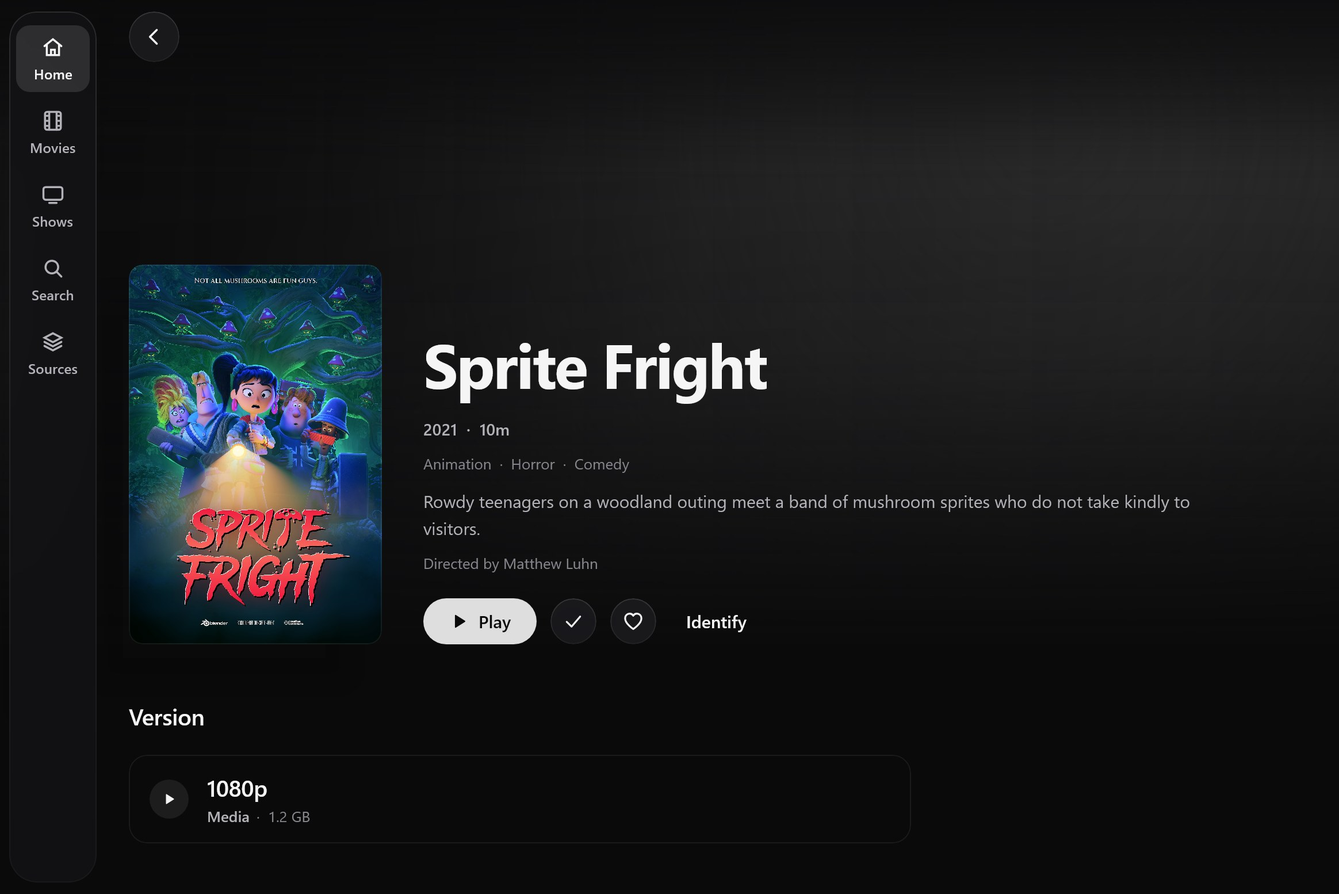
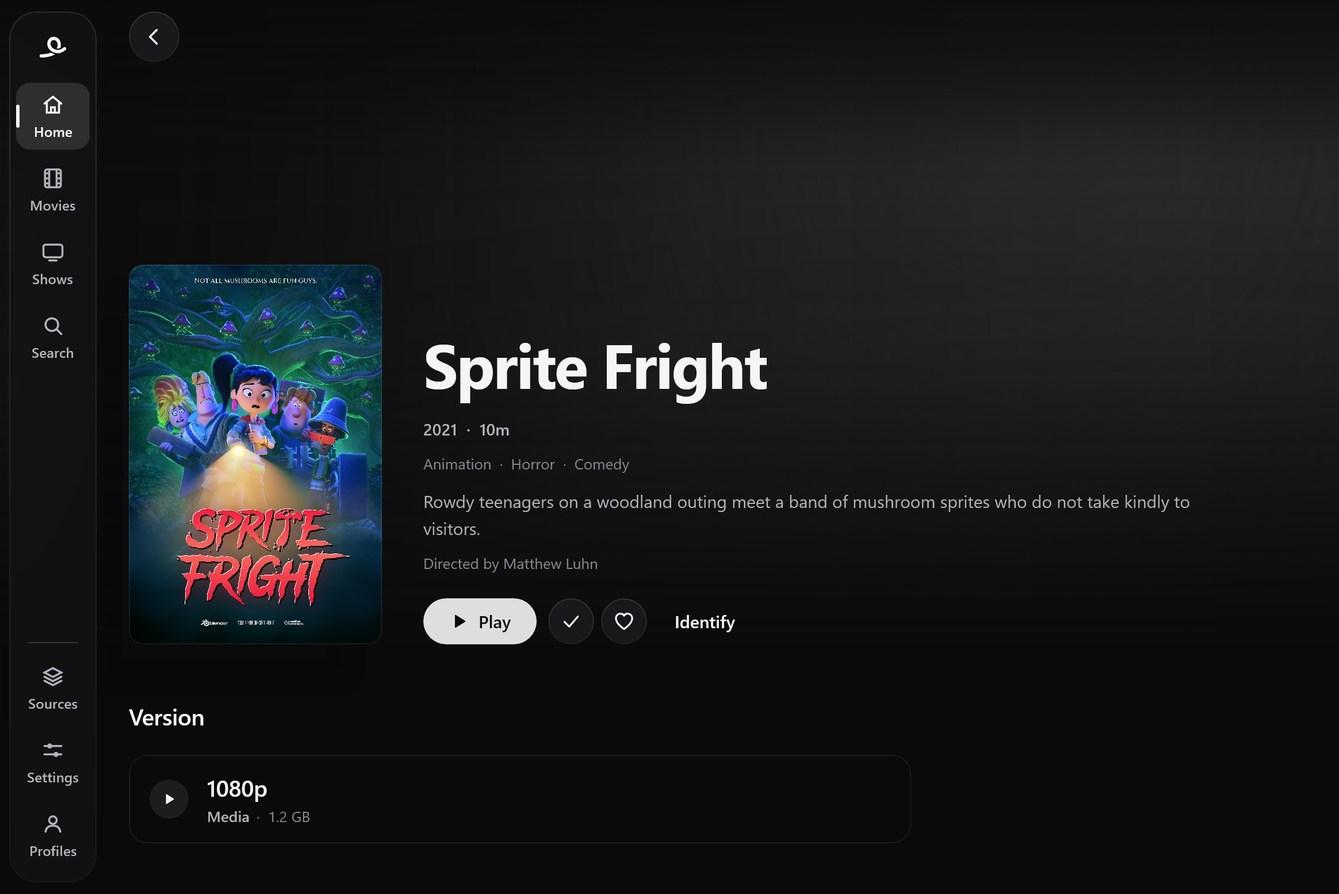
docs: record M11's rehearsal and evidence; regenerate renders and store screenshots
- VERIFICATION.md: the CI baseline, the release contract, the local rehearsal
  on the clean commit 4aab2ed (build, verify, the public set, sha256sum -c,
  notes, the publication record and its refusal of a tampered manifest, the
  website from that record, the Linux tarball installed, run, replaced, and
  removed in a clean container, the Windows zip inspected), the Android
  identity audit, the store reads, and the exit gate: the repository's part
  is done; console steps, the upload key, and a release-mode run on a tag are
  owner-pending.
- ROADMAP.md: M11's status; the stale dev.reflux owner action resolved.
- Product renders and store screenshots regenerated from the final interface
  with WebsiteShowcaseTest, which gains a television details shot (Amazon
  needs three Fire TV screenshots).

diff --git a/ui/src/jvmTest/kotlin/dev/reflux/ui/WebsiteShowcaseTest.kt b/ui/src/jvmTest/kotlin/dev/reflux/ui/WebsiteShowcaseTest.kt
@@ -134,6 +134,9 @@ class WebsiteShowcaseTest {
             app.navigator.show(Destination.Movies)
             awaitText("Big Buck Bunny")
             shoot("movies-tv")
+            app.navigator.open(Destination.Details(app.library.movies().first { it.item.title == "Sintel" }.item.id))
+            awaitText("A lonely young woman searches the world for the baby dragon she raised, after it is taken from her.")
+            shoot("details-tv")
         }
         // A phone held upright, and a tablet on its side.
         screen(world(), platform(), width = 412, height = 915, density = 2.625f) {

diff --git a/docs/VERIFICATION.md b/docs/VERIFICATION.md
@@ -1510,3 +1510,69 @@ No application code, build script, workflow, package ID, or version was changed,
 **Read from outside sources on 2026-11-13, not exercised, to be rechecked in each console when its step runs:** Play's target API 36 rule (from 2026-08-31) and Android TV's lower floor; the personal-account closed-testing rule (twelve testers opted in for fourteen days; organization accounts exempt); Play App Signing and the upload key; the Android developer verification timeline (enforcement from 2026-09-30 in Brazil, Indonesia, Singapore, and Thailand; global in 2027) and its package-name registration rules; Android TV quality criteria (including 64-bit and 16 KB page size for TV apps from 2026-08-01); Amazon's presubmission checklist, privacy questionnaire, Live App Testing, and Appstore Beta Hub (Fire OS 7 or later, or Vega OS); Microsoft's Artifact Signing eligibility, SmartScreen per-file reputation, and Smart App Control; GitHub immutable releases (public preview announced 2025-08-26; 2026 status not verified), `gh release verify`, and artifact attestations. **Not verified, so not relied on:** whether a drop below twelve testers resets the fourteen days; the exact Play TV screenshot dimensions; whether sideloaded debug installs count toward a package's "known installs"; Microsoft Store account, fee, and packaging requirements; the April 2026 reports of an Artifact Signing reputation regression.
 
 **State:** planned, not started. M11's evidence section will separate implemented, tested locally, verified on a device or console, owner-pending, unavailable, and deferred, as M10's did.
+
+## M11: Distribution & Release Surfaces (2026-11-15)
+
+Commits: `4c79794` (the CI baseline), `4aab2ed` (the distribution work), and the record that follows them. Nothing was pushed, tagged, published, uploaded to a store, or deployed; `reflux.version` is `0.9.0-alpha.2`, unchanged. Tiers as in M10: **implemented**, **tested locally**, **verified on a device**, **owner-pending**, **unavailable**, **deferred**.
+
+### The hosted CI baseline
+
+Run 43428113176 (commit `972e3f0`) failed four `:ui:allTests` on Ubuntu; the Windows job and the other jobs were green. **Both causes were font metrics, and one was a real defect.** Reflux draws with the platform's default font; the Linux runner resolves DejaVu Sans, about 10 to 20% wider than Segoe UI (Windows) and Roboto (Android).
+
+- `DetailActionsLayoutTest` (three tests, added in `dbb4840` and only ever run on Windows before): at 412 dp the Resume / From the start / watched / favorite row needs 394 dp on DejaVu (410 with 48 dp targets) against 380 available, 355 (371) on Segoe UI; the layout wraps the compact pair together, as designed. The tests model a phone's width and font, so the Linux CI job now pins `sans-serif` to Liberation Sans (Arial metrics; `tools/ci/fonts.conf`, `FONTCONFIG_FILE`, `fonts-liberation`). No test or assertion changed. **Margin:** under Liberation Sans the touch row fits with 0 dp to spare (9 dp on Windows); a font update on the runner can tip it.
+- `PointerTest.theScrubberSeeksWhereItIsDraggedTo`: reproduced 3 of 3 in the Linux container with the identical position (1,527,573 ms against 1,500,000 ± 20,000), so not an intermittent failure. Cause: the clocks beside the timeline changed width as they counted ("1:35" to "15:00"), moving the bar under the pointer during the drag. **Fixed in the product:** each clock keeps the width of the widest time it can show for the duration (`PlayerOverlay.kt`, `clockWidth`). With DejaVu and no font pin it passes 2 of 2 in the container; on Windows it passes.
+- Locally: Linux container `:ui:jvmTest` 421 tests, 2 skipped, 0 failed (with the pin, before the clock fix); `PointerTest` 18/18 twice on DejaVu after it. Windows, full `./gradlew check releaseInfo` with Android, after both: Android unit 56, core 364, design 43, desktop app 54 (13 skipped: window tests not requested), desktop engine 44 (6 skipped), library 241, metadata 11, playback 53, Jellyfin 63, local 6, Plex 23, SMB 10 (2 skipped), WebDAV 20, ui 421 (1 skipped, `WebsiteShowcaseTest`): **0 failures**. The known intermittent `AboutUiTest` passed.
+- **Hosted CI on these commits: not run** (nothing pushed). The website job now also runs the site's unit tests (`npm test`).
+
+### M11.1 and M11.4: the release contract and GitHub
+
+- **Implemented:** manifest schema 2 (`distribution`: `github-release` or `store`); `SHA256SUMS` lists the public files only; `release.py verify --public`, `stage-public`, `notes`, `publish-record`; tag checks; the permanent package exactly; an optional pinned signer (`REFLUX_UPLOAD_CERT_SHA256`). `release.yml`: the draft carries only the public set with generated notes; the verify job refuses any Android asset and produces the publication record as an artifact; the tag must be on `main` or `hotfix/<version>`; immutable-release verification runs once a release is published. **Found and fixed:** the release job wrote the Linux archive into an untracked folder (`linux/`), which the tool's clean-tree check would have refused on every real release.
+- **Tested locally:** `python -I -m unittest discover -s tools/release` 43 tests OK; actionlint (`rhysd/actionlint:latest`) clean over all workflows; gitleaks v8.24.3 over the working tree found only build outputs and the reviewed test fixtures (CI's scan is over the history, with `.gitleaksignore`).
+- **D3:** the repository is public; `GET repos/Rifaque/reflux/immutable-releases` returns `enabled: false`; `gh` 2.94.0 has `release verify` and `verify-asset`, and `gh release view --json` exposes asset digests. **Owner-pending:** switching it on.
+- **Not run (needs a push and a tag, so the owner's authorisation):** the workflow's release mode, a real draft, `gh attestation verify` against GitHub. Two things only that run can show: whether the draft is visible to the verify job's token, and whether GitHub fills asset digests on a draft (if not, `publish-record --github-release` moves to after publication).
+
+### M11.8: the local rehearsal (clean commit `4aab2ed`)
+
+1. `release-info.json` (the Linux container's `package` build): 0.9.0-alpha.2, `versionCode` 90002, Windows 0.9.2, Linux 0.9.0~alpha.2, alpha, `dev.rsxdevelops.reflux`, `4aab2ed`, not modified.
+2. `release.py build --signing-env ~/.reflux-release/dry-run.env --add <linux tarball>`: APK 6,651,195 B, AAB 11,543,870 B, Windows zip 106,412,535 B, libmpv source 62,568,712 B, Linux tarball 91,831,565 B, all from `4aab2ed`.
+3. `verify` of the full set: 5 artifacts. The APK (aapt2): `dev.rsxdevelops.reflux`, 90002, 0.9.0-alpha.2, label "Reflux", not debuggable. The manifest: schema 2, APK and AAB `store`, the other three `github-release`.
+4. `stage-public`: the zip, the tarball, the libmpv source, and the three records; `sha256sum -c SHA256SUMS` with no flags: 3 OK; `verify --public`: 3 artifacts.
+5. `notes --version 0.9.0-alpha.2`: the notes and a 450-character store text from the changelog's section.
+6. `publish-record`: wrote the record, byte-identical to the manifest; a second run was a no-op; a manifest with one altered checksum was refused and nothing was written. `build --tag v0.9.0-alpha.2` was refused (that tag points at `4f4a26f`, not the built commit).
+7. The website built with the rehearsal record (`RELEASE_PUBLISHED_DIR`): the Download page links the Windows zip, the Linux tarball, the libmpv source, and `SHA256SUMS`, shows the commit and the checksums, and has no APK or AAB; `check-dist`: 17 pages, 0 problems. Rebuilt without it afterwards: 0 problems, tree clean.
+8. **Linux, clean container** (Ubuntu 24.04 with `libmpv2`, an unprivileged user with a new home, Xvfb): checksum OK; extracted to `~/Applications/a`; `bin/Reflux` executable; running after 25 s with a "Reflux" window (1360 × 860); the library created in `~/.local/share/reflux`; replaced by a fresh extraction in `~/Applications/b` with the old one removed: runs, library kept; removed: nothing left under the home. The replacement was the same version (no newer build exists), so it shows replacement, not a version upgrade.
+9. **Windows:** the zip extracted to a scratch folder: `Reflux.exe` `NotSigned` (by decision), the bundled runtime, `LICENSE.txt`, and `app/resources/libmpv-2.dll` with exactly the pinned SHA-256 (`e52f3f45…`); removed. **Unavailable:** Windows Sandbox (Windows 11 Home has none). Not launched, because the only Windows machine here is the owner's own, with their library in `%LOCALAPPDATA%\Reflux`. The clean-machine run and the SmartScreen wording re-check are owed to a Pro machine or VM (M12's artifact wave).
+10. **Provenance by a second machine:** owed to the first release-mode run (a machine with only `gh` and the downloaded assets).
+
+### M11.2: the Android identity and Google Play
+
+- **Implemented:** debug builds are `dev.rsxdevelops.reflux.debug`, label "Reflux (debug)", test APK `dev.rsxdevelops.reflux.debug.test`; release stays `dev.rsxdevelops.reflux`; `tools/live/run-on-device.py` follows (`REFLUX_TEST_RUNNER` overrides).
+- **Tested locally (aapt2 36.1.0):** debug `dev.rsxdevelops.reflux.debug` 90002 0.9.0-alpha.2 `application-debuggable`; release `dev.rsxdevelops.reflux` 90002 0.9.0-alpha.2, not debuggable; `releaseInfo` reports the release ID. The AAB holds `libandroidx.graphics.path.so` for arm64-v8a, armeabi-v7a, x86, and x86_64, every LOAD segment 16 KB-aligned; the release APK passes `zipalign -c -P 16`. `bundletool` not run.
+- **Device audit (2026-11-15):** Xiaomi Pad 7 `852ec620`: no Reflux. The `.debug` build was installed beside (HyperOS refused four times with `INSTALL_FAILED_USER_RESTRICTED` until the tap was accepted), launched, its artwork provider registered as `dev.rsxdevelops.reflux.debug.artwork`, then uninstalled: no Reflux again. Fire TV Stick `192.168.1.176:5555` (read-only): `dev.reflux` (installed 2026-11-08) and `dev.rsxdevelops.reflux` (2026-11-09), both 0.9.0-alpha.2 / 90002, not debuggable, one signer (most likely the dry-run key), no installer. Nothing Phone 2a: not connected; the 2026-11-13 record says it holds a `DEBUGGABLE` `dev.rsxdevelops.reflux`.
+- **Read 2026-11-15:** Android developer verification (developer.android.com and its FAQ): ADB installs need no verification; Play packages are registered at creation (about 99% automatically; the console's verification page shows it); enforcement from 2026-09-30 in four countries, global in 2027. Closed testing: 12 testers for 14 continuous days for personal accounts created after 2023-11-13; the organization exemption was **not** on the page read, so it is confirmed in the console. 16 KB pages: from 2027-02-01 a non-compliant update cannot be released. The 2026-03-30 registration date in RELEASE.md was not re-confirmed.
+- **Owner-pending:** everything in `release/google-play.md`; uninstalling the old copies of the permanent ID (the Fire TV Stick's two packages; the Phone 2a's, after checking its library).
+
+### M11.3: Amazon Appstore (Fire OS)
+
+- **Implemented:** `release/store-listing.md` as the single source for both stores (Amazon short description, bullets, keywords, the 13 content-rating answers, plain text, the TMDB wording marked dependent on D5, Watch Next marked Play-only, Fire OS only, never Vega); `release/amazon-appstore.md`.
+- **Read 2026-11-15 (developer.amazon.com):** the Fire TV background is required; Fire TV images carry no transparency; Fire TV shows the first 200 characters of the short description; 3–5 bullets; targetSdk floors per Fire OS (36 for Fire OS 16, 34 for 14, 30 for 8, 28 for 7); devices are chosen in the console; the privacy questionnaire blocks publication while incomplete; LAT and Beta Hub (Fire OS 7+); `preferExternal` recommended (not adopted; DECISIONS.md, 2026-11-15). Two pages could not be read (the image guidelines, 404; a publishing page, 500).
+- **Assets measured:** icons 114 and 512, the Fire TV icon 1280 × 720 and the background 1920 × 1080 (RGBA with full alpha: exported as RGB if the console refuses them): screenshots under M11.7.
+- **Owner-pending:** everything in `release/amazon-appstore.md`, including the LAT install, update, and removal on the Stick.
+
+### M11.7: the website
+
+- **Implemented:** the Download page (the availability table, archives from the record, the libmpv source, the notices, install / update / remove, the verification commands, notes from the changelog), the tester links, the notices page's libmpv source section, the Privacy page's profiles and PIN lines; `stores.json` and the published records validated by the build.
+- **Tested locally:** `npm test` 31/31; `npm run build`, `check-dist`, and `check-layout` (17 pages × 7 sizes, Chromium) with no record and with a fixture record; `check-links` with no record (18 external links, 0 broken); a generated page that gives the APK an address fails `check-dist`. **Not run:** a Vercel preview (deploys follow a push).
+- **Product renders and store screenshots regenerated** from the final interface (HEAD after M10) with `WebsiteShowcaseTest` over the Blender open films (artwork from Wikimedia Commons as `src/showcase.json` lists it), which gained a television details shot: store screenshots `desktop-*` 1920 × 1200 (3), `phone-home` 1080 × 2160 (top crop of 1081 × 2401, as before), `tablet-*` 2328 × 1554 (2), `tv-*` 1920 × 1080 (3, new: `tv-details`), all RGB JPG; the site's five WebP renders at their existing sizes. Each looked at: the final navigation (the profile button on the phone, the rail on the television, the sidebar on the desktop), the real artwork, no commercial title. The pairing of downloaded files to posters and backdrops is not recorded in the repository; it was inferred from the previous renders.
+
+### M11 exit gate (2026-11-15)
+
+**Not yet satisfied; the repository's part is.** The plan's gate has three conditions:
+
+| Condition | State |
+| --- | --- |
+| The rehearsal (plan, section 6) passes on a clean commit | **Local steps passed** on `4aab2ed` (1, 3 to 5, 7 in part, and the website and Linux parts of 8). **Open:** step 2's release mode on a tag and the draft on GitHub (need a push and the owner's authorisation), step 6 (store consoles), step 7 for Android, Fire TV, and Windows (store tracks; a clean Windows machine), step 8's second machine |
+| Every row of section 7's evidence recorded here | Recorded above, each with its tier; the Play internal install, the Amazon LAT install, and the Windows clean-machine run are recorded as not done |
+| No open owner action blocks a `0.9.0-beta.1` hand-off | **Open, and blocking:** the Play account type and verification, the Play and Amazon app entries, the upload key with the four `REFLUX_UPLOAD_*` secrets and the `REFLUX_UPLOAD_CERT_SHA256` variable, the support e-mail, the reviewer test source, removing the old copies of the permanent ID (Fire TV Stick, Phone 2a), D5. **Open, not blocking the hand-off:** immutable releases switched on (before the first publication), the Windows signing eligibility check (by M12's midpoint) |
+
+**Self-review.** A clean commit produced every artifact; version, commit, `versionCode`, and package agree across `release-info.json`, the manifest, the APK, `SHA256SUMS`, the publication record, and the website; the public set verifies independently with `sha256sum` and `release.py verify --public`; the five V1 targets and their channels read the same on the site, in the listing, and in RELEASE.md; no Android file can reach the GitHub release or the site; debug and release identities are separate. **Outside the plan's letter, kept deliberately:** the player's clock-width fix (the hosted CI baseline was M11's first gate, and the failure was a real defect, not a test assumption). Nothing of M12 was started.

diff --git a/release/amazon-appstore.md b/release/amazon-appstore.md
@@ -13,7 +13,7 @@ Fire TV runs Fire OS. Vega OS devices run no Android apps and are never targeted
 | 3 | Release workflow run | Get `reflux-<version>-android.apk` from the release workflow's artifacts (D1: Android is store-only, so not from the public GitHub release). Run `python tools/release/release.py verify <dir>` on it first | The APK is signed with the upload key; Amazon removes that signature and re-signs with its own. Verification re-checks package, `versionCode`, not debuggable, and signer | A release-workflow run on the release commit (an owner-requested build; never change the version by hand, `docs/VERSIONING.md`) | Verified APK: package `dev.rsxdevelops.reflux`, the `versionCode` the Play AAB uses |
 | 4 | Console, upload and Supported devices | Upload the APK. Open **Edit supported devices**; keep **Amazon Fire TV** devices that run Fire OS; clear tablets, Amazon Automotive, and anything marked Vega OS; read every "reduced device support" or "target device not available" warning and record it | Manifest filters already require no touchscreen (so the Appstore classifies the app as Fire TV). `minSdk` 26 excludes Fire OS 6 (API 25) and includes Fire OS 7 (28) and 8 (30); targetSdk 36 meets Amazon's floors (Fire OS 16: 36). Selection of Fire TV devices is manual | 3 | A Fire TV-only device list, with the Fire TV Stick 4K Plus (`AFTMA08C15`, Fire OS 8) on it. The Stick's userland is 32-bit: do not clear armeabi-v7a support, and note any warning about 64-bit |
 | 5 | Console, listing details | Fill title, short description (first 200 characters are what Fire TV shows), long description, 3 to 5 feature bullets, keywords, category, support e-mail, and privacy policy URL from `store-listing.md`; the metadata/TMDB wording waits on decision D5 | One source for both stores | 2, D5 for the TMDB sentence | Listing text complete; length limits (long description 4,000 characters, plain text) accepted |
-| 6 | Console, images | Upload from `design/brand/store/`: `amazon-icon-114.png`, `amazon-icon-512.png`, `amazon-firetv-icon-1280x720.png` (no transparency, subject inside 882 x 448), `amazon-firetv-background-1920x1080.png` (required, no transparency), and 3 to 10 TV screenshots at 1920 x 1080 | Fire TV's required set. Only two TV screenshots exist and they predate M9 and M10 | Regenerated TV screenshots (M11.7) | Every image accepted. If the console rejects the RGBA PNGs as transparent, export them as RGB |
+| 6 | Console, images | Upload from `design/brand/store/`: `amazon-icon-114.png`, `amazon-icon-512.png`, `amazon-firetv-icon-1280x720.png` (no transparency, subject inside 882 x 448), `amazon-firetv-background-1920x1080.png` (required, no transparency), and 3 to 10 TV screenshots at 1920 x 1080 | Fire TV's required set; the three `screenshots/tv-*.jpg` were regenerated from the final interface on 2026-11-15 | Nothing more | Every image accepted. If the console rejects the RGBA PNGs as transparent, export them as RGB |
 | 7 | Console, User Data Privacy Questionnaire | Answer from `docs/PRIVACY.md`, "Store disclosures": no data collected or shared, no account, no advertising ID; TMDB's title-and-year request follows D5; declare any third-party code's collection | Amazon will not publish a new app or update while the questionnaire is incomplete or has unaddressed issues | 2, D5 | Questionnaire complete, no flagged issues; privacy labels preview matches the site's privacy page |
 | 8 | Console, content rating | Answer Amazon's 13 fields from `store-listing.md` ("Content rating") | Required to submit and for Live App Testing; changes after publication need a new app file | 2 | Rating result recorded in `docs/RELEASE.md` |
 | 9 | Console, Live App Testing (LAT) | Create a test from the uploaded APK; add the owner's own Amazon account as the one tester. Several listing fields (long description, keywords, support contact, privacy) are not part of the LAT flow and can be completed later | LAT is the beta route; the owner's own test rehearses it. **Do not count this as the M12 campaign** | 3 to 8 as far as the flow requires | An invitation e-mail and a test page for the owner's account |
@@ -37,7 +37,7 @@ Fire TV runs Fire OS. Vega OS devices run no Android apps and are never targeted
 | App content meets the content policy | A player for the user's own media; no content shipped |
 | App preparation (binary) | Verified APK from the release workflow; the manifest needs no touchscreen and no camera permission |
 | User data privacy | Step 7 |
-| Images | Step 6; screenshots must be regenerated |
+| Images | Step 6 |
 | Intellectual property documentation | Third-party notices and attribution on the website; TMDB per D5 |
 | Testing on a physical device and the test criteria | Fire TV Stick 4K Plus. Criteria to walk: D-pad moves a visible focus in all four directions, no screen traps the user, Back returns to the previous screen, media buttons (rewind, fast-forward, play/pause) act on playback, the app exits on Home within about 2 seconds, install size under 4 GB, no force close, graceful behaviour without optional capabilities |
 | Device targeting in the manifest | Touchscreen not required (done); device list in step 4 |
@@ -48,7 +48,7 @@ Fire TV runs Fire OS. Vega OS devices run no Android apps and are never targeted
 
 ## Owner-pending (named)
 
-Developer account and support e-mail; the app entry; the metadata decision D5 (TMDB sentence and privacy answer); regenerated Fire TV screenshots (at least three); the reviewer test source; the `preferExternal` decision; a Fire TV television (M12 hardware).
+Developer account and support e-mail; the app entry; the metadata decision D5 (TMDB sentence and privacy answer); the reviewer test source; a Fire TV television (M12 hardware).
 
 ## Sources (read 2026-11-15)
 

diff --git a/docs/RELEASE.md b/docs/RELEASE.md
@@ -122,7 +122,7 @@ Read 2026-11-08 from the stores' current documentation (sources below); recheck 
 | Release build | R8 and resource shrinking, not debuggable, release logging redacted, no TMDB credential, no endpoint of Reflux's own (it calls only the user's servers and plex.tv) | Same |
 | Privacy policy | `https://reflux.rsxdevelops.dev/privacy` (live once the site is deployed) | Same |
 | Data safety / privacy questions | PRIVACY.md, "Store disclosures": nothing collected or shared | Same |
-| Listing | `release/store-listing.md`: text, category, content-rating answers; artwork in `design/brand/store` (icon, feature graphic, TV banner, screenshots) | The same file (Amazon's short description, bullets, keywords, and 13 content-rating answers added in M11); 114 and 512 px icons, the 1280 × 720 Fire TV icon and the **required** 1920 × 1080 background (no transparency), 1920 × 1080 screenshots (3 to 10: two exist, both from before M9, so they are regenerated). Fire TV shows only the first 200 characters of the short description (read 2026-11-15) |
+| Listing | `release/store-listing.md`: text, category, content-rating answers; artwork in `design/brand/store` (icon, feature graphic, TV banner, screenshots) | The same file (Amazon's short description, bullets, keywords, and 13 content-rating answers added in M11); 114 and 512 px icons, the 1280 × 720 Fire TV icon and the **required** 1920 × 1080 background (no transparency), 1920 × 1080 screenshots (3 to 10: three, regenerated from the final interface on 2026-11-15). Fire TV shows only the first 200 characters of the short description (read 2026-11-15) |
 | Testing track | Closed testing. A **personal** account created after 2023-11-13 must have ≥12 testers opted in for the last 14 days before production access; an **organization** account is exempt. Which the RSX Develops account is: **not readable from this environment** (owner action, M8 entry checklist) | Live App Testing: testers are invited by e-mail and install from the Appstore on their device; they must allow the Appstore's promotional e-mails |
 | Owner actions | In order: `release/google-play.md` | In order: `release/amazon-appstore.md` |
 

diff --git a/release/store-listing.md b/release/store-listing.md
@@ -71,14 +71,14 @@ Dashes are plain text on purpose (Amazon rejects markup). Two things differ by s
 | TV banner 1280 × 720 | `play-tv-banner-1280x720.png` |
 | Phone screenshots (2:1) | `screenshots/phone-home-1080x2160.jpg` |
 | Tablet screenshots | `screenshots/tablet-home-2328x1554.jpg`, `tablet-details-2328x1554.jpg` |
-| TV screenshots 1920 × 1080 | `screenshots/tv-home-1920x1080.jpg`, `tv-movies-1920x1080.jpg` |
+| TV screenshots 1920 × 1080 | `screenshots/tv-home-1920x1080.jpg`, `tv-movies-1920x1080.jpg`, `tv-details-1920x1080.jpg` |
 
 | Amazon Appstore (Fire TV) | File |
 | --- | --- |
 | Small icon 114 × 114, large icon 512 × 512 | `amazon-icon-114.png`, `amazon-icon-512.png` |
 | Fire TV app icon 1280 × 720 | `amazon-firetv-icon-1280x720.png` |
 | Background 1920 × 1080 (required by the console) | `amazon-firetv-background-1920x1080.png` |
-| Screenshots 1920 × 1080 (3 to 10) | `screenshots/tv-*.jpg`: **two exist, Amazon needs at least three**; they were generated 2026-11-08, before M9 and M10 changed navigation and the player, so regenerate all from the final interface (M11.7) before upload |
+| Screenshots 1920 × 1080 (3 to 10) | `screenshots/tv-*.jpg`: three (home, movies, a film's details), regenerated 2026-11-15 from the final interface (M10), RGB JPG |
 
 Amazon's asset rules (read 2026-11-15, developer.amazon.com, "Step 3: Add Appstore Details"): small and large icons PNG; Fire TV app icon 1280 × 720 PNG **with no transparency**, subject inside the 882 × 448 safe area; Fire TV background 1920 × 1080 (required by the console), JPG or 24-bit PNG with no transparency, subject inside 1214 × 830; screenshots 3 to 10, 1920 × 1080 landscape, JPG or 24-bit PNG with no transparency, not distorted or pixelated. The Fire TV files in `design/brand/store` are fully opaque but saved as RGBA PNG; export them as RGB if the console objects.
 

diff --git a/docs/planning/M11-DISTRIBUTION-PLAN.md b/docs/planning/M11-DISTRIBUTION-PLAN.md
@@ -1,6 +1,6 @@
 # M11 — Distribution & Release Surfaces: plan
 
-**Status: authoritative for M11.** Written 2026-11-13, after M10 (`43f8f5b`, `dbb4840`), as a documentation-only planning pass: no application code, build script, workflow, package ID, or version was changed to write it. It replaces the M11 scope in `M8-M13-REBASELINE.md` (section 8, "M11"; sections 3.6 to 3.8) where the two differ, and says where they differ (section 2). The roadmap entry is `ROADMAP.md`, "M11"; the durable decisions are in `DECISIONS.md`, 2026-11-13.
+**Status: authoritative for M11; implemented 2026-11-15** (commits `4c79794`, `4aab2ed`; D1 store-only Android, D2 the `.debug` suffix, D3 immutable releases on the owner's switch, D7 `release.py publish-record`, all in DECISIONS.md, 2026-11-15; evidence and what is still owner-pending in VERIFICATION.md, "M11", and ROADMAP.md, "M11"). Written 2026-11-13, after M10 (`43f8f5b`, `dbb4840`), as a documentation-only planning pass: no application code, build script, workflow, package ID, or version was changed to write it. It replaces the M11 scope in `M8-M13-REBASELINE.md` (section 8, "M11"; sections 3.6 to 3.8) where the two differ, and says where they differ (section 2). The roadmap entry is `ROADMAP.md`, "M11"; the durable decisions are in `DECISIONS.md`, 2026-11-13.
 
 **The sentence M11 exists for:** a hypothetical `0.9.0-beta.1` can be distributed through every intended channel, from one release identity, without any new distribution infrastructure having to be built. M11 makes what already exists *true and connected*; it does not build another release system.
 
